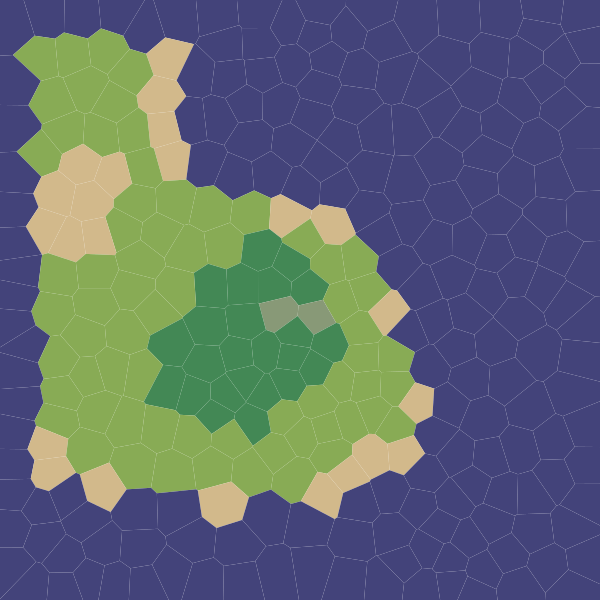
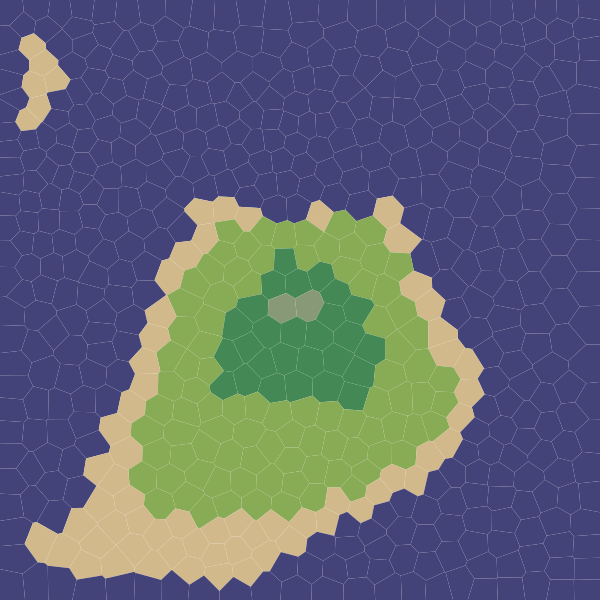
Decreased tile size, increased tile granularity

diff --git a/voronoi.js b/voronoi.js
@@ -267,4 +267,4 @@ function color(biome) {
     return null;
 }
 
-generate(600, 600, 300, 5);
+generate(600, 600, 600, 10);
